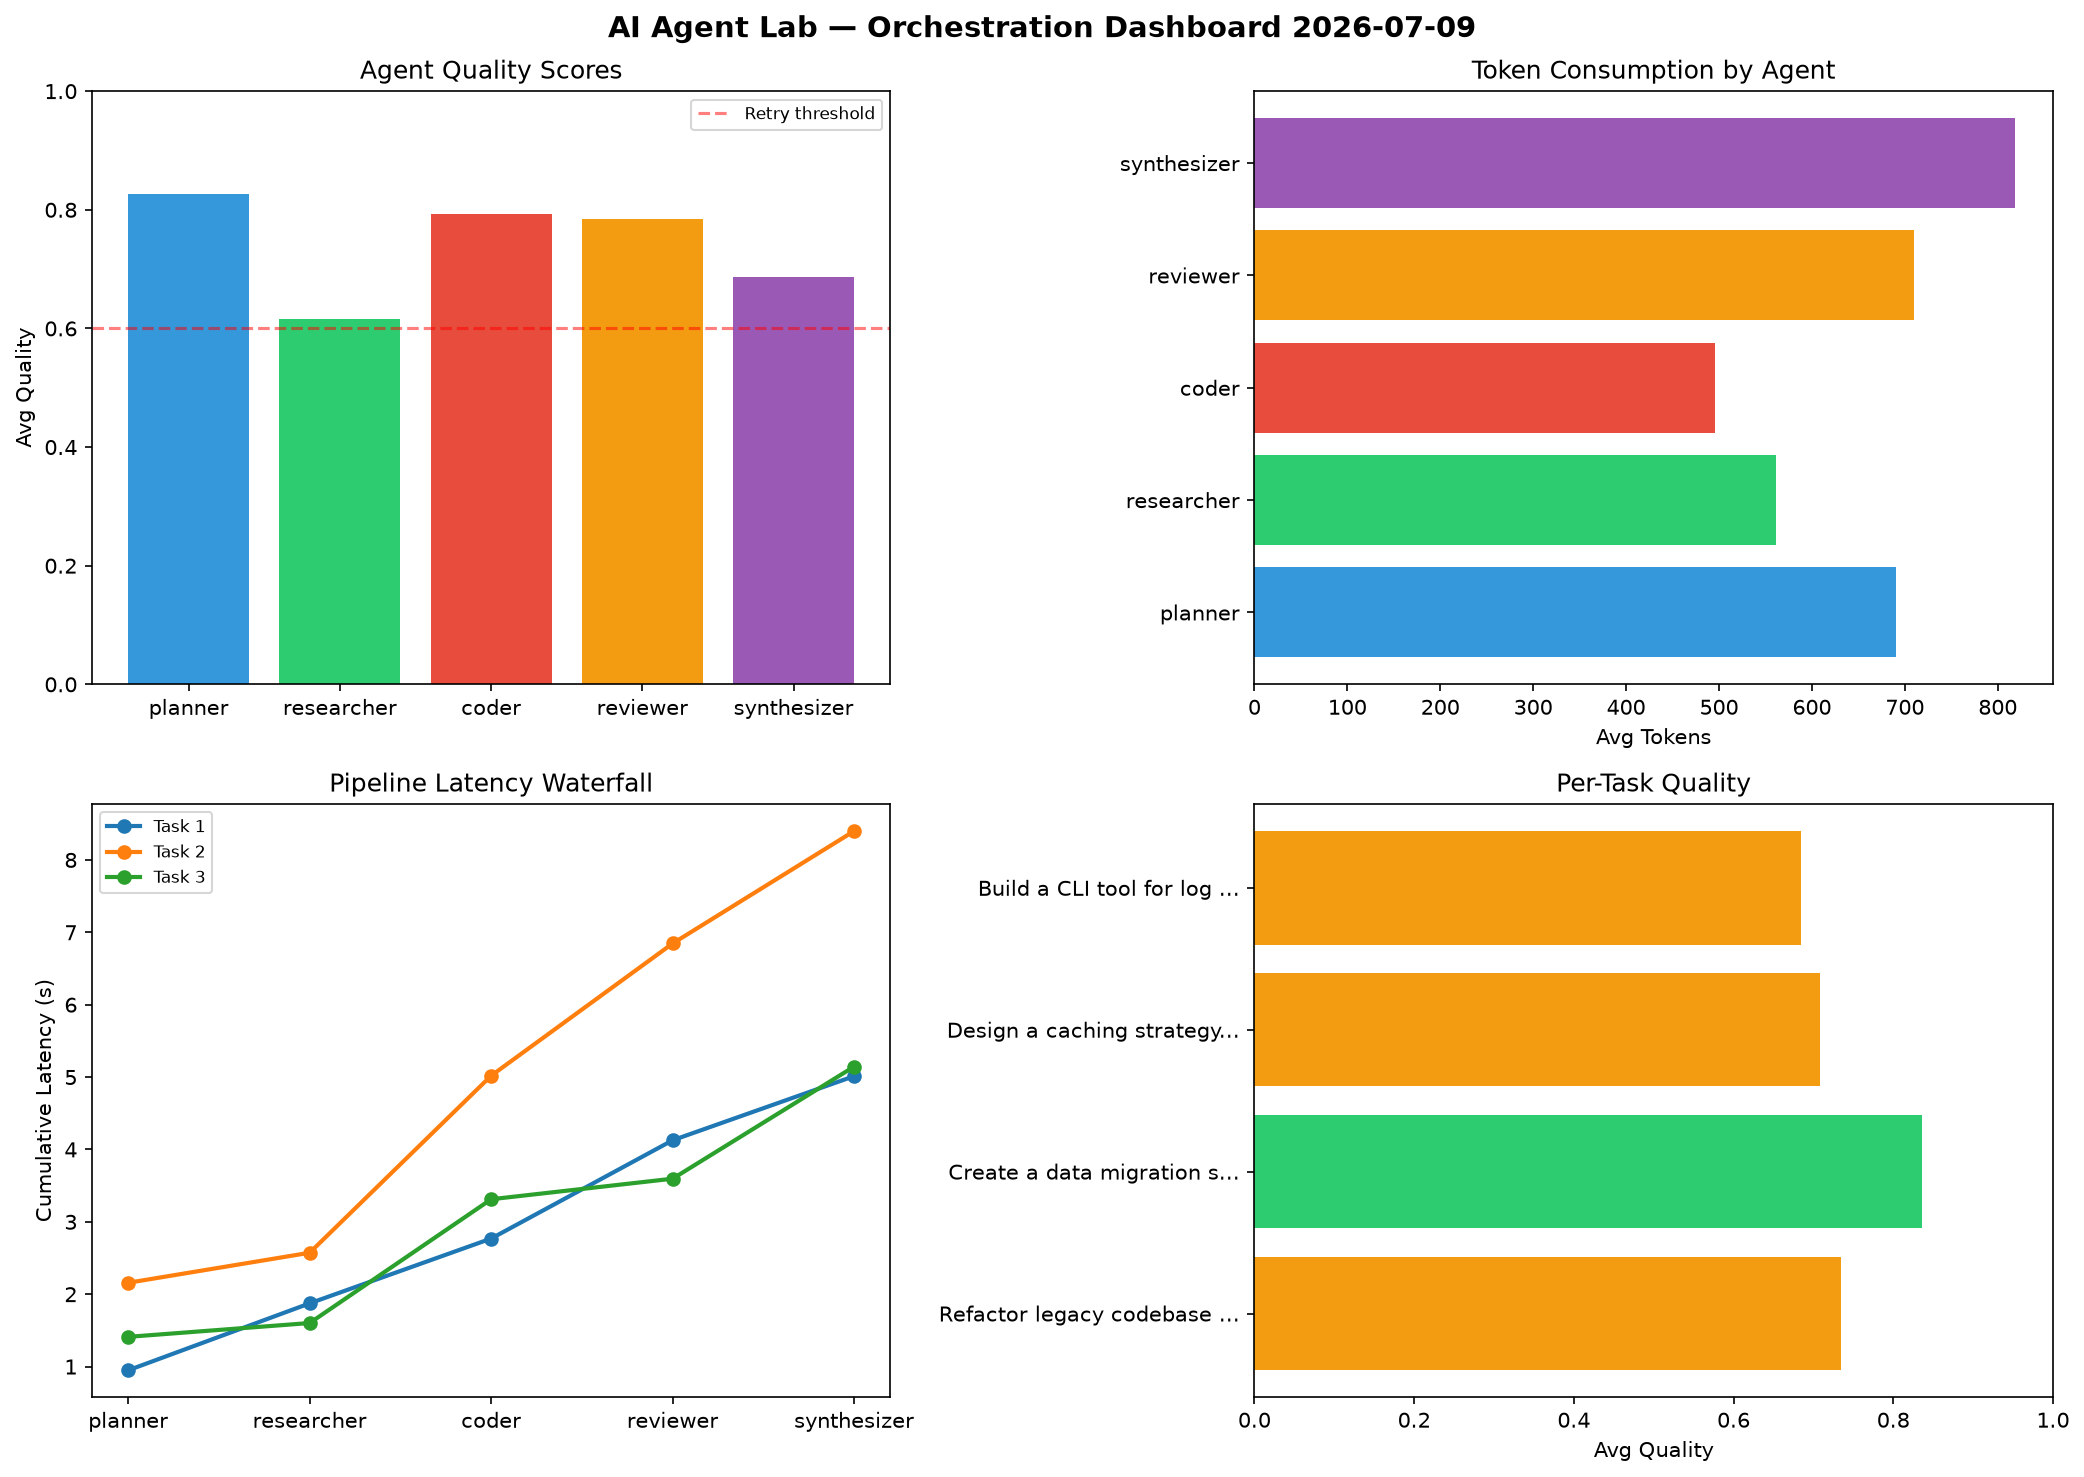
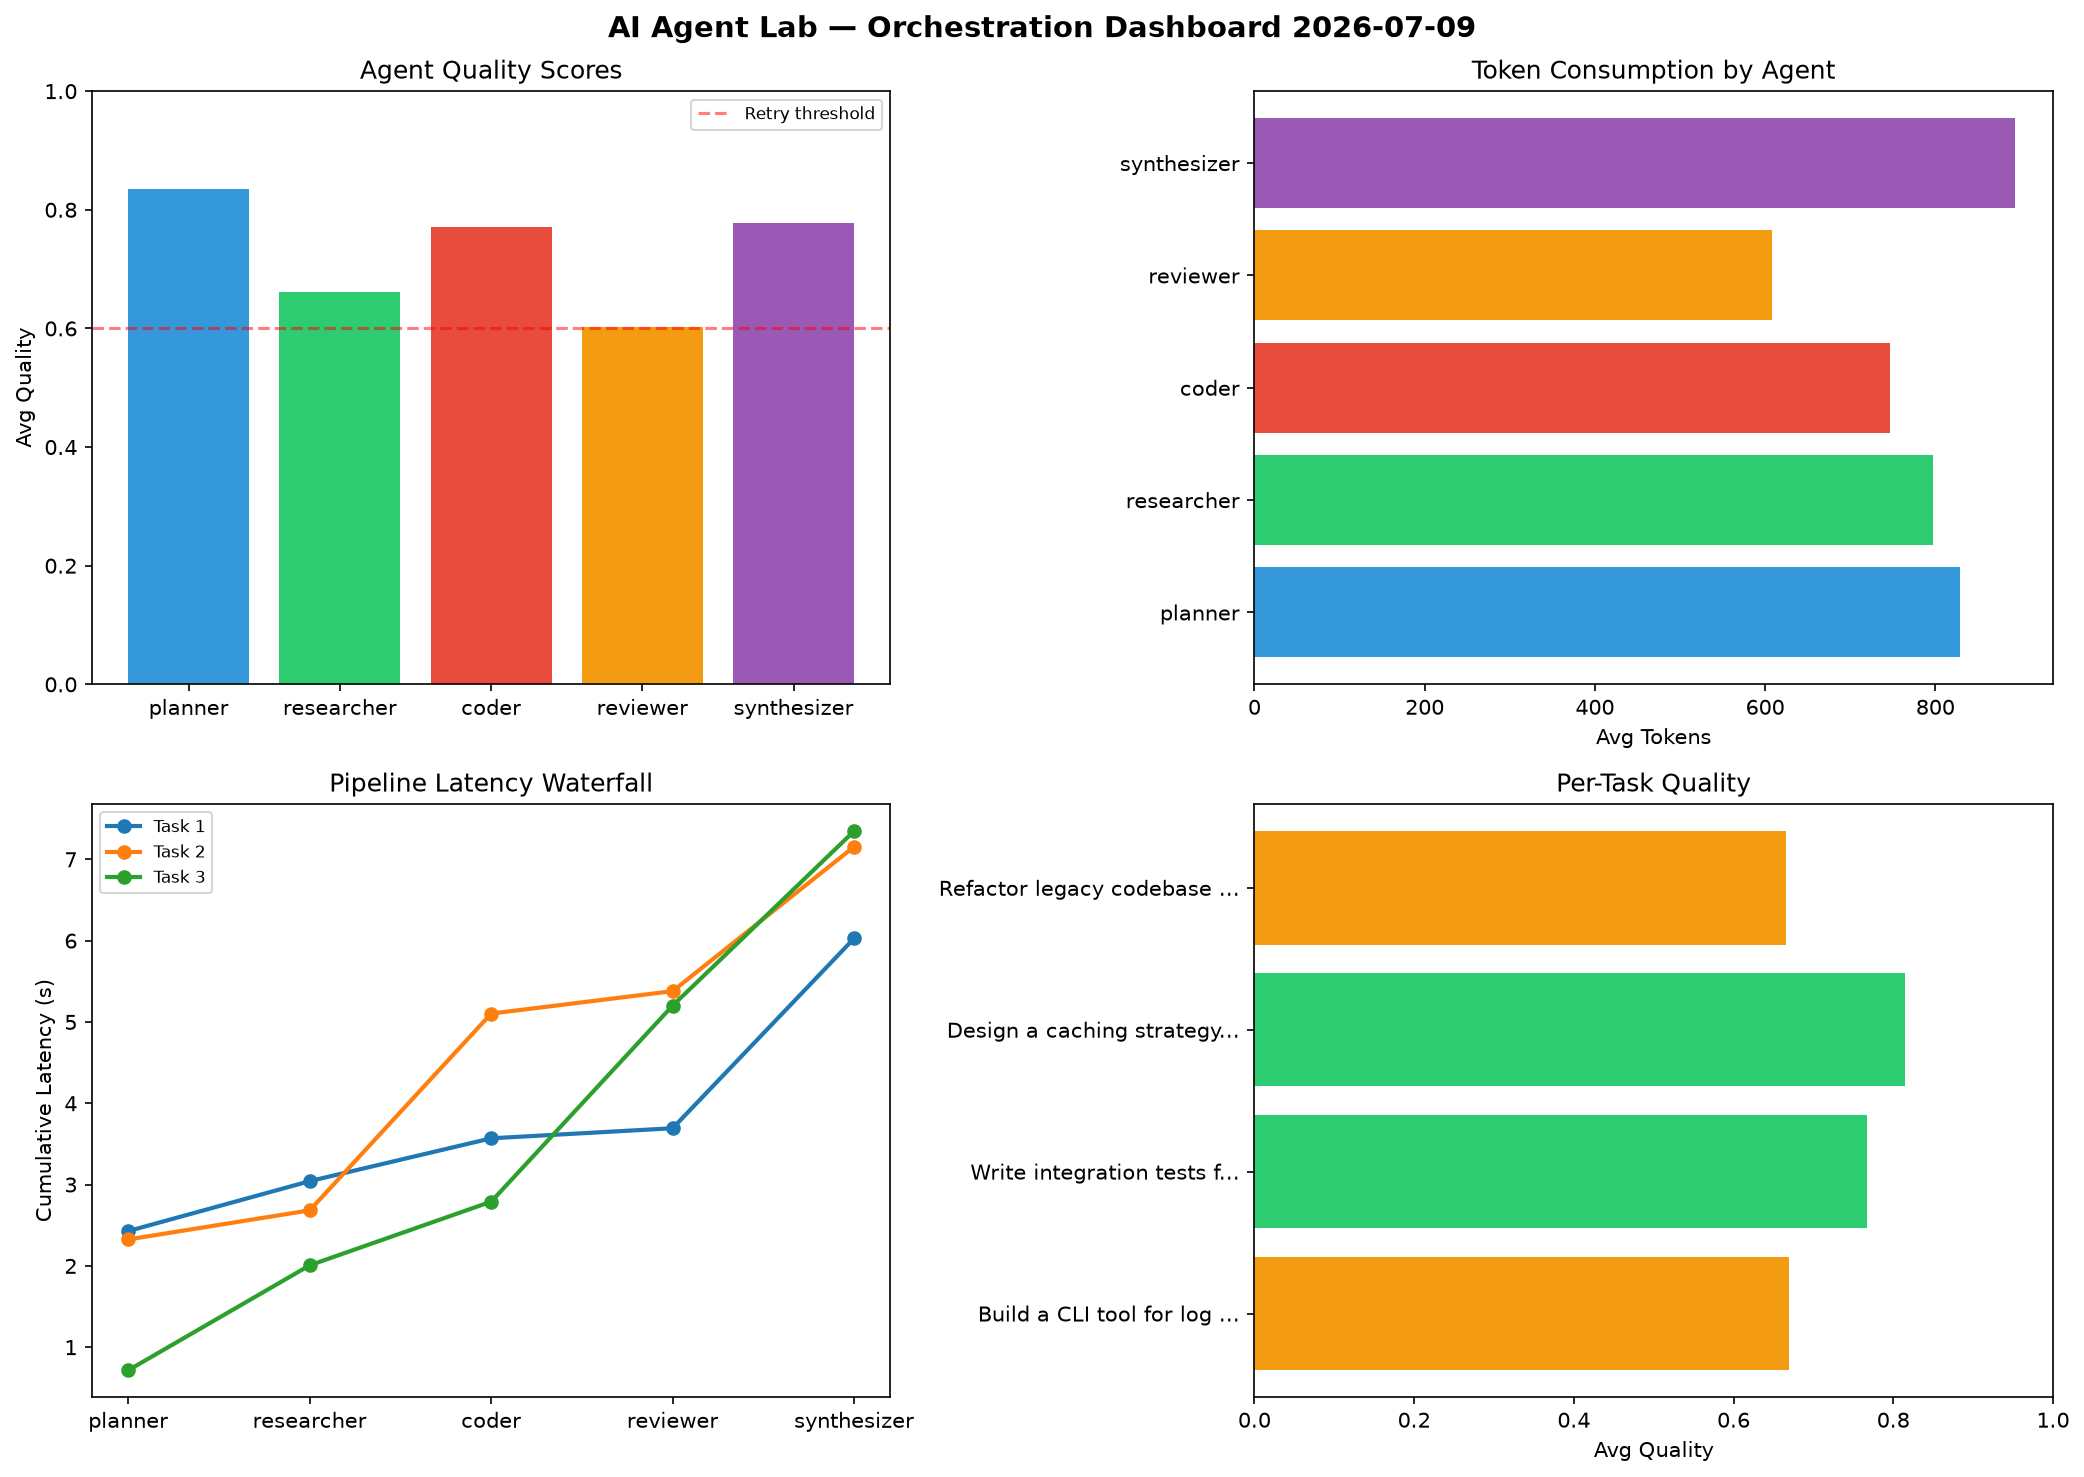
ai-agent-lab: orchestration run 2026-07-09T11:23

diff --git a/logs/2026-07-09.md b/logs/2026-07-09.md
@@ -1,6 +1,6 @@
 # AI Agent Lab — Orchestration Report 2026-07-09
 
-**Run ID:** `59b26e1927` | **Tasks:** 4 | **Avg Quality:** 0.741
+**Run ID:** `406bed9f66` | **Tasks:** 4 | **Avg Quality:** 0.729
 
 ![Dashboard](2026-07-09_dashboard.png)
 
@@ -8,52 +8,52 @@
 
 | Metric | Value |
 |--------|-------|
-| avg_latency | 6.1 |
-| total_tokens | 13103 |
-| avg_quality | 0.741 |
+| avg_latency | 6.873 |
+| total_tokens | 15499 |
+| avg_quality | 0.729 |
 
 ## Delta vs Yesterday
 
 | Metric | Today | Yesterday | Change |
 |--------|-------|-----------|--------|
-| avg_latency | 6.1 | 7.512 | 📉 -18.8% |
-| total_tokens | 13103 | 14912 | 📉 -12.1% |
-| avg_quality | 0.741 | 0.722 | 📈 2.6% |
+| avg_latency | 6.873 | 7.512 | 📉 -8.5% |
+| total_tokens | 15499 | 14912 | 📈 3.9% |
+| avg_quality | 0.729 | 0.722 | 📈 1.0% |
 
 ## Pipeline Results
-
-### Refactor legacy codebase to use dependency injection
-| Agent | Quality | Latency | Tokens | Status |
-|-------|---------|---------|--------|--------|
-| planner | 0.923 | 0.949s | 970 | success |
-| researcher | 0.64 | 0.925s | 507 | success |
-| coder | 0.835 | 0.895s | 278 | success |
-| reviewer | 0.718 | 1.358s | 384 | success |
-| synthesizer | 0.559 | 0.886s | 768 | needs_retry |
-
-### Create a data migration script for schema v2
-| Agent | Quality | Latency | Tokens | Status |
-|-------|---------|---------|--------|--------|
-| planner | 0.797 | 2.158s | 452 | success |
-| researcher | 0.575 | 0.415s | 322 | needs_retry |
-| coder | 0.892 | 2.446s | 474 | success |
-| reviewer | 0.981 | 1.827s | 947 | success |
-| synthesizer | 0.937 | 1.553s | 655 | success |
-
-### Design a caching strategy for high-traffic endpoints
-| Agent | Quality | Latency | Tokens | Status |
-|-------|---------|---------|--------|--------|
-| planner | 0.96 | 1.411s | 502 | success |
-| researcher | 0.6 | 0.191s | 791 | needs_retry |
-| coder | 0.596 | 1.71s | 590 | needs_retry |
-| reviewer | 0.709 | 0.284s | 1129 | success |
-| synthesizer | 0.673 | 1.549s | 1161 | success |
 
 ### Build a CLI tool for log analysis
 | Agent | Quality | Latency | Tokens | Status |
 |-------|---------|---------|--------|--------|
-| planner | 0.627 | 2.057s | 838 | success |
-| researcher | 0.647 | 0.841s | 625 | success |
-| coder | 0.847 | 1.256s | 642 | success |
-| reviewer | 0.727 | 1.064s | 378 | success |
-| synthesizer | 0.578 | 0.625s | 690 | needs_retry |
+| planner | 0.589 | 2.428s | 755 | needs_retry |
+| researcher | 0.687 | 0.614s | 1004 | success |
+| coder | 0.891 | 0.527s | 599 | success |
+| reviewer | 0.603 | 0.124s | 746 | success |
+| synthesizer | 0.58 | 2.335s | 1277 | needs_retry |
+
+### Write integration tests for payment processing module
+| Agent | Quality | Latency | Tokens | Status |
+|-------|---------|---------|--------|--------|
+| planner | 0.884 | 2.325s | 506 | success |
+| researcher | 0.561 | 0.358s | 660 | needs_retry |
+| coder | 0.735 | 2.42s | 859 | success |
+| reviewer | 0.667 | 0.276s | 766 | success |
+| synthesizer | 0.988 | 1.777s | 639 | success |
+
+### Design a caching strategy for high-traffic endpoints
+| Agent | Quality | Latency | Tokens | Status |
+|-------|---------|---------|--------|--------|
+| planner | 0.973 | 0.716s | 1196 | success |
+| researcher | 0.792 | 1.291s | 413 | success |
+| coder | 0.85 | 0.783s | 1018 | success |
+| reviewer | 0.58 | 2.411s | 370 | needs_retry |
+| synthesizer | 0.878 | 2.147s | 1011 | success |
+
+### Refactor legacy codebase to use dependency injection
+| Agent | Quality | Latency | Tokens | Status |
+|-------|---------|---------|--------|--------|
+| planner | 0.895 | 2.132s | 860 | success |
+| researcher | 0.603 | 1.969s | 1112 | success |
+| coder | 0.609 | 1.202s | 513 | success |
+| reviewer | 0.558 | 0.243s | 548 | needs_retry |
+| synthesizer | 0.663 | 1.413s | 647 | success |
